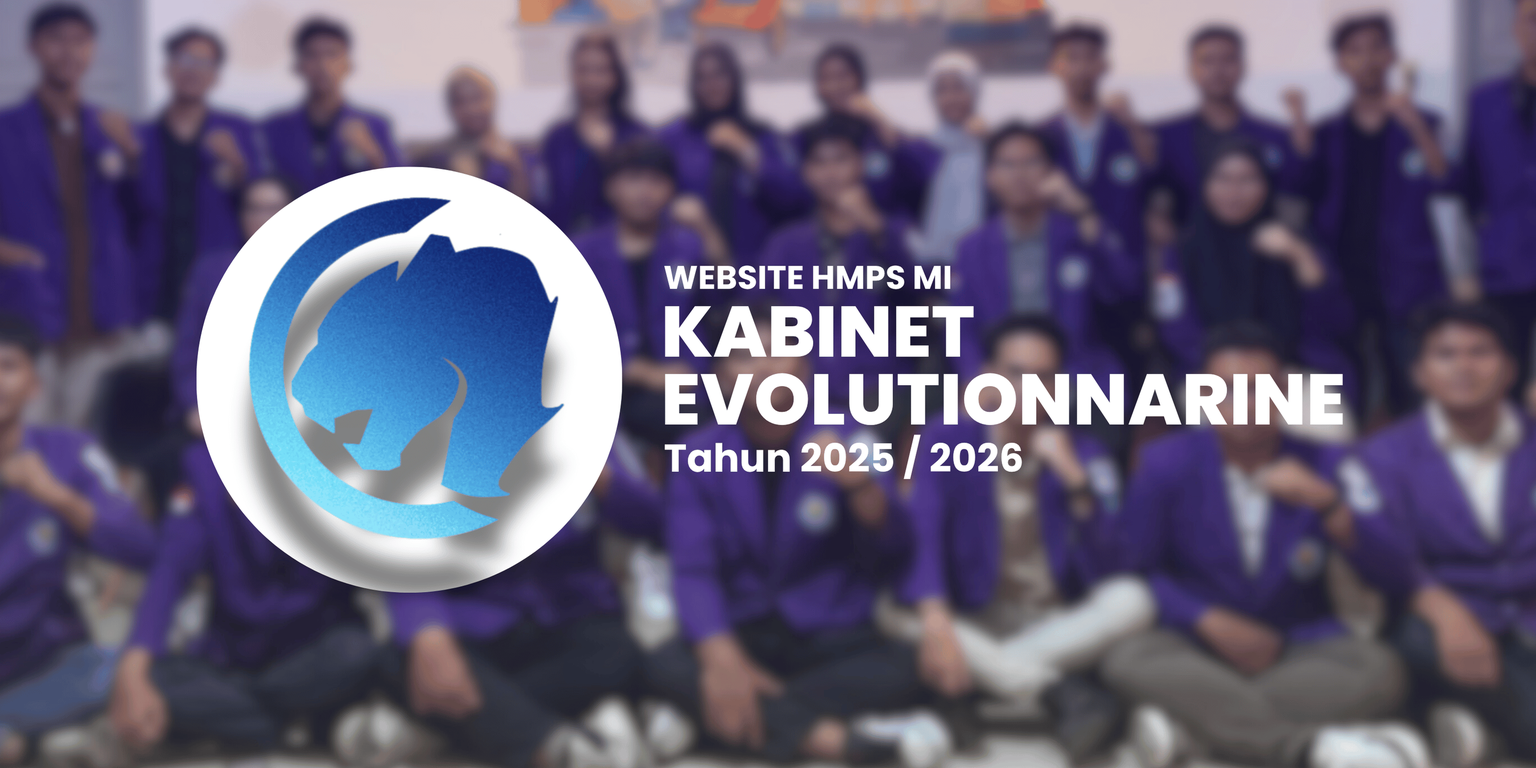
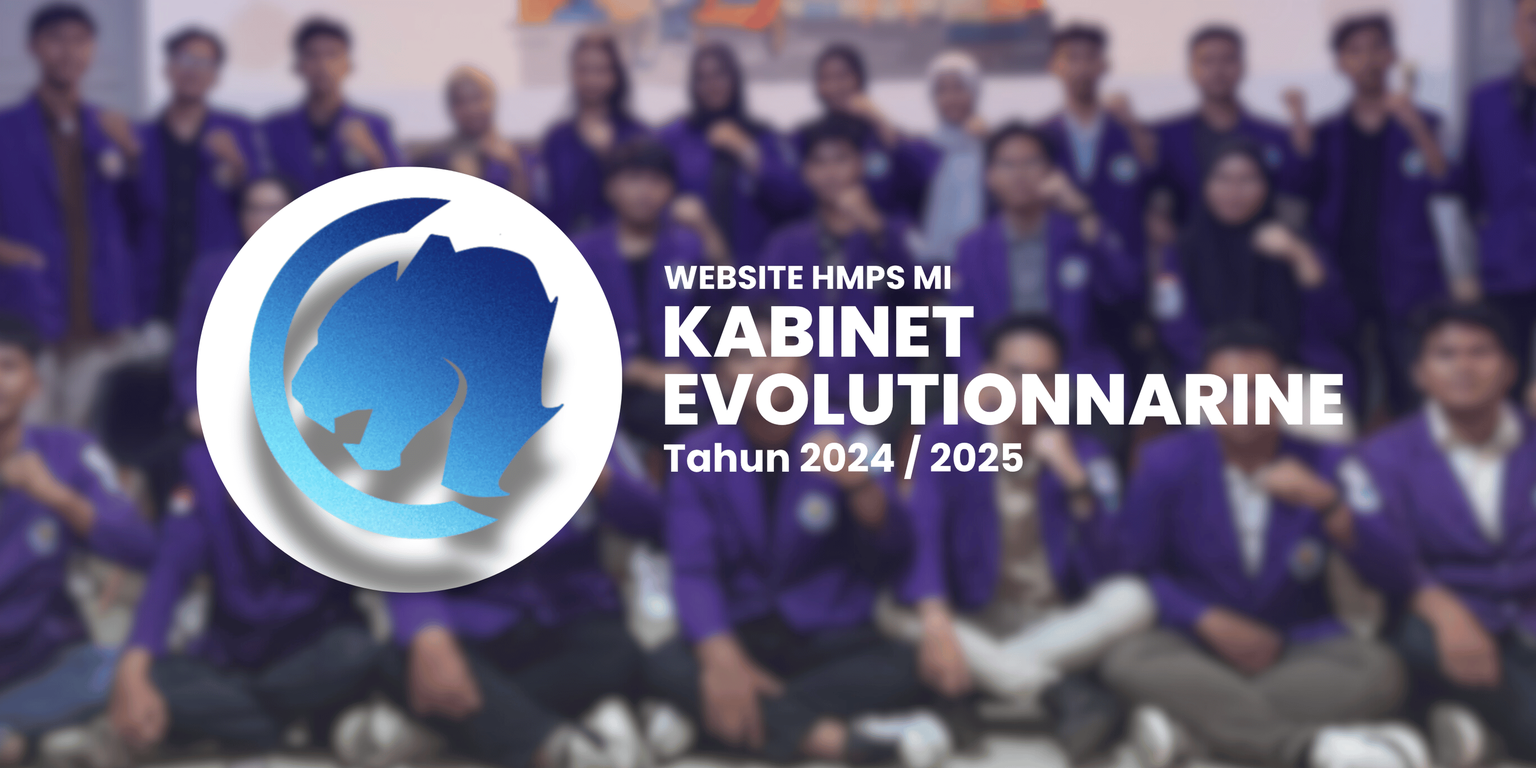
HARINI2

diff --git a/src/components/Profile.jsx b/src/components/Profile.jsx
@@ -27,7 +27,7 @@ const Profile = () => {
       />
 
       {/* Konten teks */}
-      <div className="w-full max-w-3xl px-5 sm:px-6 py-6 text-left space-y-4">
+      <div className="w-full max-w-3xl px-5 sm:px-6 py-6 text-left space-y-4 mb-[5rem]">
         <h1 className="text-2xl font-bold text-center mb-4">APA ITU HMPS MI?</h1>
         <p className="leading-relaxed text-justify">
           HMPS MI (Himpunan Mahasiswa Program Studi Manajemen Informatika) adalah wadah organisasi 
@@ -42,12 +42,46 @@ const Profile = () => {
           berprestasi dan berkontribusi positif bagi masyarakat.
         </p>
         <p className="leading-relaxed text-justify">
-          Melalui berbagai program kerja dan kegiatan internal maupun eksternal, HMPS MI berupaya menciptakan 
-          lingkungan yang inspiratif dan produktif bagi seluruh anggotanya. Organisasi ini tidak hanya menjadi 
-          tempat belajar dan berorganisasi, tetapi juga wadah untuk mempererat solidaritas, menumbuhkan jiwa 
-          kepemimpinan, serta menyiapkan mahasiswa agar siap bersaing di dunia profesional yang dinamis.
+        Melalui berbagai program kerja dan kegiatan internal maupun eksternal, HMPS MI berupaya menciptakan 
+        lingkungan yang inspiratif dan produktif bagi seluruh anggotanya. Organisasi ini tidak hanya menjadi 
+        tempat belajar dan berorganisasi, tetapi juga wadah untuk mempererat solidaritas, menumbuhkan jiwa 
+        kepemimpinan, serta menyiapkan mahasiswa agar siap bersaing di dunia profesional yang dinamis.
         </p>
-      </div>
+
+      </div>{/* 🔹 Logo & teks kabinet */}
+<div className="flex flex-col items-center justify-center -mt-[5rem] mb-20 text-center select-none">
+  {/* 🔸 Logo kabinet */}
+  <div className="inline-block relative">
+    <img
+      src="/title/logo_kabinet.png"
+      alt="Logo Kabinet Evolutionnarine"
+      className="
+        object-contain
+        drop-shadow-xl
+        transition-transform duration-500 hover:scale-110
+      "
+      style={{
+        display: 'inline-block',
+        width: '95rem',      // 📱 di HP hampir full lebar layar
+        maxWidth: '700rem',  // 💻 besar di desktop tapi tetap elegan
+        height: 'auto',     // ⚡ menjaga rasio
+      }}
+    />
+  </div>
+
+  {/* 🔸 Teks di bawah logo */}
+  <div className="-mt-[10rem]">
+    <h1 className="text-2xl sm:text-3xl font-bold tracking-wide text-gray-800 drop-shadow-sm">
+      KABINET EVOLUTIONNARINE
+    </h1>
+    <h2 className="text-sm sm:text-2xl text-gray-600 mt-1">
+      2024 / 2025
+    </h2>
+  </div>
+</div>
+
+
+  
     </div>
   );
 };

diff --git a/src/pages/User.jsx b/src/pages/User.jsx
@@ -50,7 +50,7 @@ const User = () => {
         </Canvas>
       </div>
 
-      <style jsx>{`
+      <style>{`
         @keyframes fadeIn {
           from { 
             opacity: 0;
